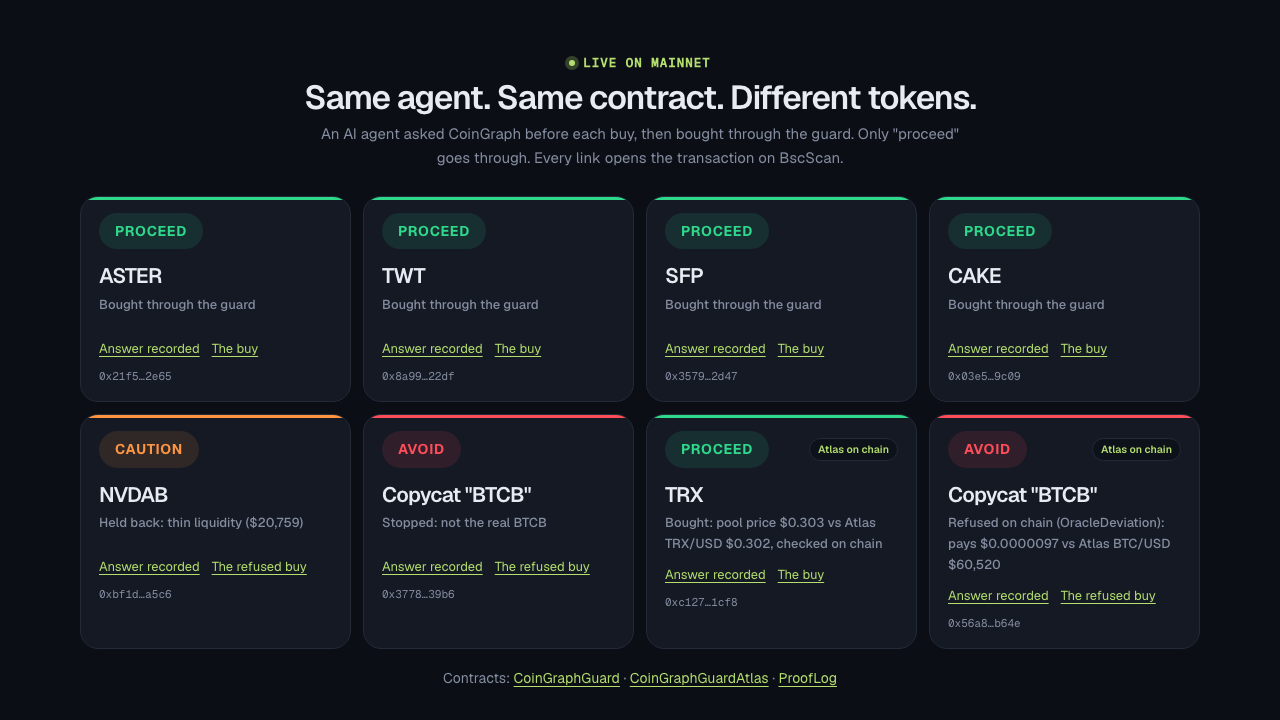
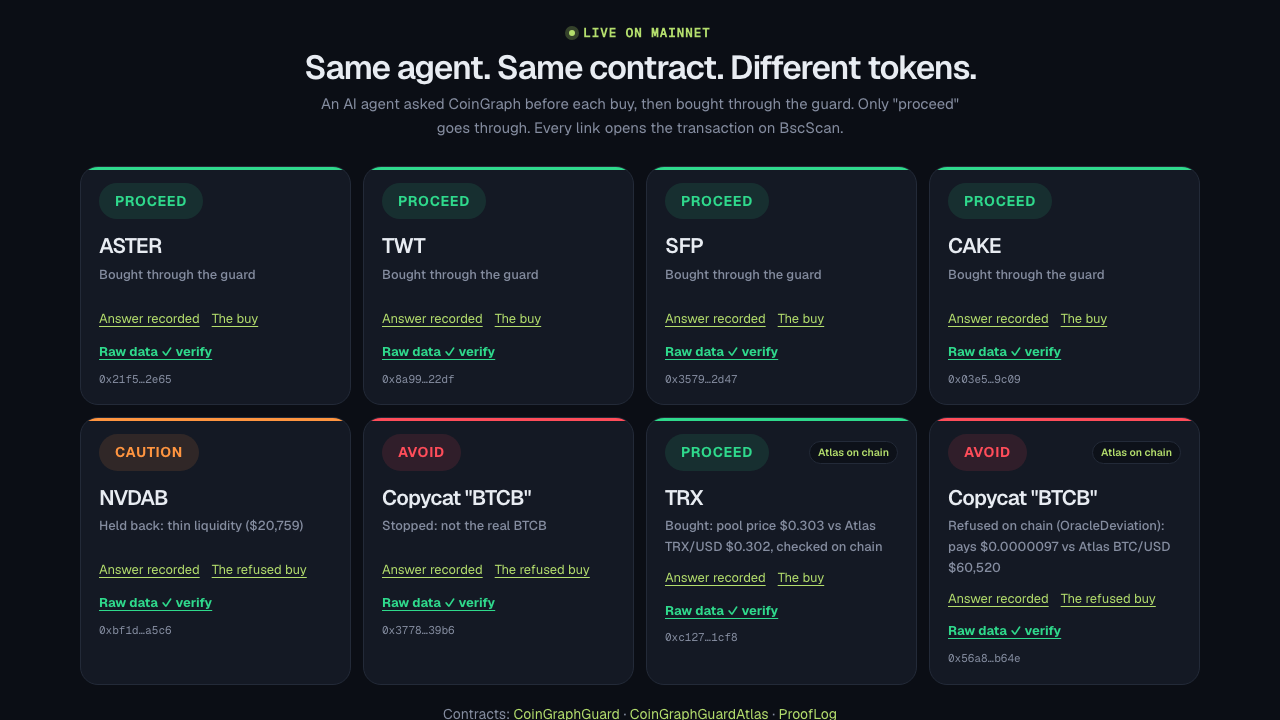
HackQuest dark images updated with Living Brain (hero, copycat refused with memory, eight checks, mainnet runs, verify page); ?theme= URL option

diff --git a/web/public/theme.js b/web/public/theme.js
@@ -2,6 +2,7 @@
 (() => {
   const root = document.documentElement;
   const store = { get: () => { try { return localStorage.getItem("cg-theme"); } catch { return null; } }, set: (v) => { try { localStorage.setItem("cg-theme", v); } catch {} } };
+  { const qt = new URLSearchParams(location.search).get("theme"); if (qt === "dark" || qt === "light") root.dataset.theme = qt; }
   const current = () => root.dataset.theme || (matchMedia("(prefers-color-scheme: dark)").matches ? "dark" : "light");
   document.querySelectorAll(".theme").forEach((b) => b.addEventListener("click", () => { const next = current() === "dark" ? "light" : "dark"; root.dataset.theme = next; store.set(next); }));
 
@@ -23,7 +24,7 @@
   }
 
   // Screenshot helper: ?shot=<section id> jumps straight to a section with reveals settled.
-  { const q = new URLSearchParams(location.search).get("shot"); if (q) root.classList.add("shot"); if (q === "all") { root.style.scrollBehavior = "auto"; addEventListener("load", () => { document.querySelectorAll(".reveal").forEach((e) => e.classList.add("in")); document.querySelector(".nav")?.classList.add("hide"); }); } else if (q && q !== "1") { root.style.scrollBehavior = "auto"; addEventListener("load", () => { document.querySelectorAll(".reveal").forEach((e) => e.classList.add("in")); const el = document.getElementById(q); if (el) { const r = el.getBoundingClientRect(); scrollTo(0, Math.max(0, r.top + scrollY - Math.max(0, (innerHeight - r.height) / 2))); } document.querySelector(".nav")?.classList.add("hide"); }); } }
+  { const q = new URLSearchParams(location.search).get("shot"); if (q) root.classList.add("shot"); if (q === "all") { root.style.scrollBehavior = "auto"; addEventListener("load", () => { document.querySelectorAll(".reveal").forEach((e) => e.classList.add("in")); document.querySelector(".nav")?.classList.add("hide"); setTimeout(() => { const o = {}; for (const id of ["demo","reads","proof","stats"]) { const e = document.getElementById(id); if (e) { const r = e.getBoundingClientRect(); o[id] = [Math.round(r.top + scrollY), Math.round(r.height)]; } } document.body.dataset.pos = JSON.stringify(o); }, 1500); }); } else if (q && q !== "1") { root.style.scrollBehavior = "auto"; addEventListener("load", () => { document.querySelectorAll(".reveal").forEach((e) => e.classList.add("in")); const el = document.getElementById(q); if (el) { const r = el.getBoundingClientRect(); scrollTo(0, Math.max(0, r.top + scrollY - Math.max(0, (innerHeight - r.height) / 2))); } document.querySelector(".nav")?.classList.add("hide"); }); } }
   // Headline: each word rises in, one after another.
   document.querySelectorAll("[data-words]").forEach((h) => {
     let i = 0;
